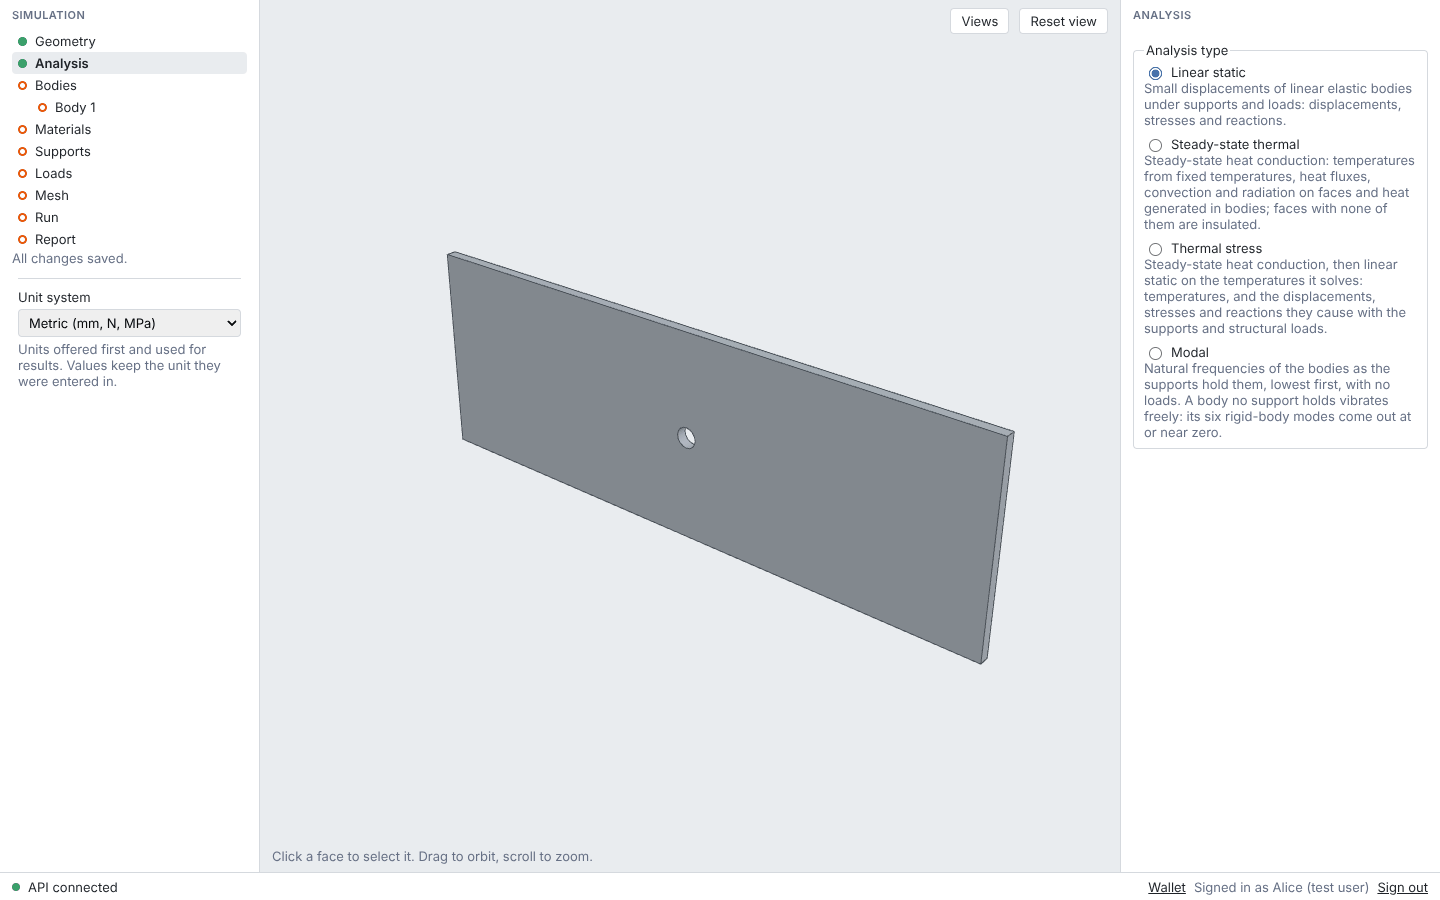
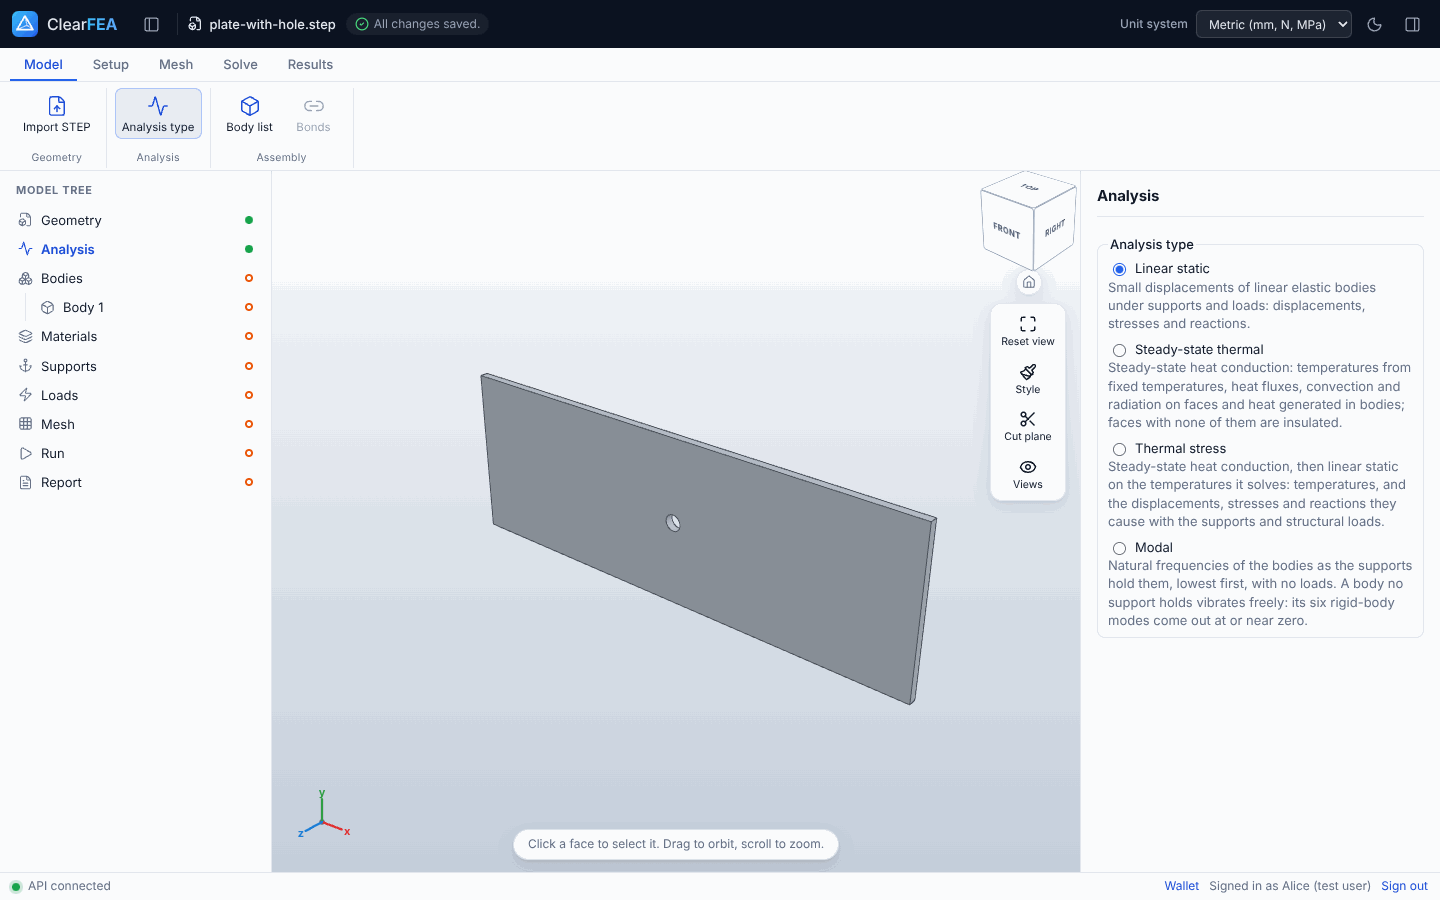
UI: retake the user guide's screenshots on the new layout
The guide's text described the ribbon, header and viewer tools after
stage 1, but its pictures still showed the old layout. Colleagues in the
M9.8 trial follow the guide, so the pictures now match what they see.
Links also take the accent colour instead of the browser's default blue.

Claude-Session: https://claude.ai/code/session_01JEjS8vYuDrWmNq7QMrwaJq

diff --git a/apps/web/src/styles.css b/apps/web/src/styles.css
@@ -282,6 +282,15 @@ button:disabled {
   text-decoration: underline;
 }
 
+a {
+  color: var(--accent-text);
+  text-decoration: none;
+}
+
+a:hover {
+  text-decoration: underline;
+}
+
 /* Fields */
 input,
 select,

diff --git a/docs/PROGRESS.md b/docs/PROGRESS.md
@@ -45,7 +45,7 @@ Copy the task list for the current milestone from `PLAN.md` here when the milest
 ### UI redesign (asked for by Shubham before M9.8; not a PLAN.md task)
 
 - [x] UI stage 1: header, ribbon, icon tree, light and dark theme, view cube, axis triad, display styles, cut plane on the geometry and mesh (ADR-094)
-- [ ] UI stage 2: refresh the user guide's screenshots for the new layout, and further viewer polish found in use
+- [x] UI stage 2: refresh the user guide's screenshots for the new layout; links take the accent colour
 
 ### M8 Platform
 
@@ -171,7 +171,7 @@ Things only the maintainer can do.
 
 Written by the last session for the next one. Replace, do not append.
 
-> UI redesign stage 1 (2026-10-18): ADR-094. New `AppHeader`, `Ribbon`, `theme.ts` in `apps/web/src/layout/` and `ViewCube.tsx` in `viewer/`; `ModelView` gained `onCamera`, `fitView`, `setDisplayStyle` and, in the interactive viewer only, a cap and plane outline with a cut. The ribbon reuses App's existing handlers, so nothing it does is new behaviour. The tests' ModelView mocks gained the three new methods; unit tests that looked for the save state and unit system in the tree now look in the header. Watch for name clashes when adding ribbon buttons: Playwright's role queries match substrings, so a ribbon button must not contain a name the E-tests ask for (for example "Run", "Generate mesh", "Reset view", "Start setup"). The user guide's text is updated; its screenshots still show the old layout (stage 2).
+> UI redesign stage 1 (2026-10-18): ADR-094. New `AppHeader`, `Ribbon`, `theme.ts` in `apps/web/src/layout/` and `ViewCube.tsx` in `viewer/`; `ModelView` gained `onCamera`, `fitView`, `setDisplayStyle` and, in the interactive viewer only, a cap and plane outline with a cut. The ribbon reuses App's existing handlers, so nothing it does is new behaviour. The tests' ModelView mocks gained the three new methods; unit tests that looked for the save state and unit system in the tree now look in the header. Watch for name clashes when adding ribbon buttons: Playwright's role queries match substrings, so a ribbon button must not contain a name the E-tests ask for (for example "Run", "Generate mesh", "Reset view", "Start setup"). The user guide's text is updated. Stage 2 retook its 19 screenshots by running the tutorial through `make dev` with the M9.3 Playwright script (kept with the pictures in the project's `ui-redesign/guide-shots/` folder; the self-hosted wallet one with `SELF_HOSTED=true`), quantised to 256 colours with Pillow's octree method, since median cut turned the legend's red brown. Small things seen in the pictures and left as they are: the Min and Max labels overlap when the two markers are close (safety factor on the plate), and the see-through legend shows a strong contour colour behind it as a smudge.
 >
 > M9.1 (2026-10-17): ADR-093. A model at every solver's element limit now runs on `make dev`: `cd verification && uv run --project ../worker --locked python -m harness.limits` (against :8787; `--out DIR`, case keys such as `pastix-2` to pick) runs the M2.11 block at each limit and prints the table below. Two things broke and are fixed: job uploads over 200 MiB were refused (both iterative solvers' 10-node limit write a 250 MB `results.frd`; the modal 10-node limit about 1 GB), now streamed and capped at 5 GiB; and after an upload of about 1 GB, wrangler dev drops the next request, so the worker now retries a transfer twice on a 5xx or a lost connection (wrangler's own proxy retries GETs, not PUTs). Surprising: Gmsh cannot mesh the block between 136,092 and 144,794 elements, nor between 440,406 and about 461,400, so the PaStiX 10-node and the 461,000 limits were run at 96 percent. The time estimate was 1.3 to 2.2 times the measured time on every limit (iterative scaling 10-node most), the safe side; the solver's peak memory was within 3 percent of the estimate above 2 GiB and within 7 percent below. The sandbox kept 1.4 GiB free at worst (the modal 10-node run, 10.3 GiB solver peak). Viewer screenshots of the 1.1-million-element run (results, cut plane) and of the modal run are in the project's `m9.1/` folder; drawing speed on the laptop is M9.2's.
 >
@@ -401,6 +401,7 @@ Newest first. One entry per session: date, what was done, what was learned.
 
 ### 2026-10-18
 
+- UI redesign stage 2: the user guide's screenshots retaken on the new layout (tutorial values unchanged: 183.3 MPa, safety factor 1.35); links in the accent colour.
 - UI redesign stage 1 (ADR-094): header, ribbon, icon tree, light and dark theme, floating viewer tools with a view cube and axis triad, display styles, and a cut plane that sections the geometry and mesh as well as results. Learned: a checkbox drawn as a tool must lie over the whole tool (opacity 0) so Playwright's click lands on it.
 
 ### 2026-10-17
